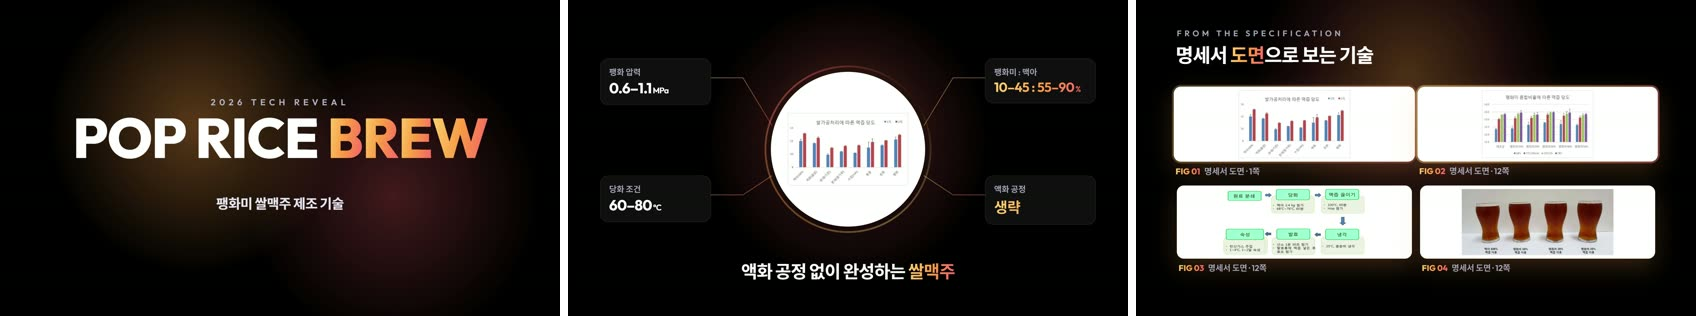
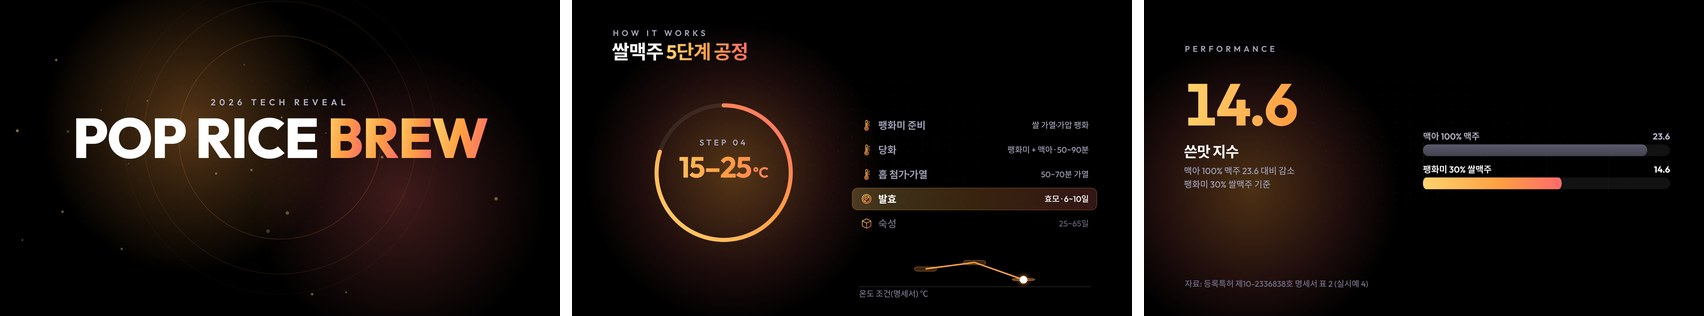
README: refresh the template A preview
Rebuilt from the bundled 137 example with the current graphics: teaser
(spreading rings, motes), process dial with the temperature profile, and
the proof bars on their grid. The previous strip used the patent's own
drawings, which are not in the repository, so the new one shows the
scenes that need none.

Claude-Session: https://claude.ai/code/session_01CNALjXvvUYaZbau6Tg1MtR

diff --git a/README.md b/README.md
@@ -86,7 +86,7 @@ PYTHONIOENCODING=utf-8 python -I -u tools/produce.py --template S     # → pate
 같은 특허(등록특허 10-2336838 팽화미 쌀맥주 제조 기술) 하나로 만든 장면입니다(현재 버전으로 렌더).
 
 ### A 언팩 · 16:9 · 60초
-검은 무대에 그라디언트 코드네임, 스펙 칩, 명세서 도면 스포트라이트. 발표회·전시용. S의 바탕 무대이기도 합니다.
+검은 무대에 그라디언트 코드네임(퍼지는 링·떠오르는 입자), 진행 다이얼 공정과 온도 프로파일, 성과 막대, 스펙 칩, 명세서 도면 스포트라이트. 발표회·전시용. S의 바탕 무대이기도 합니다.
 ![템플릿 A](docs/previews/template-a.jpg)
 
 ### B 카드뉴스 · 9:16 · 50초
